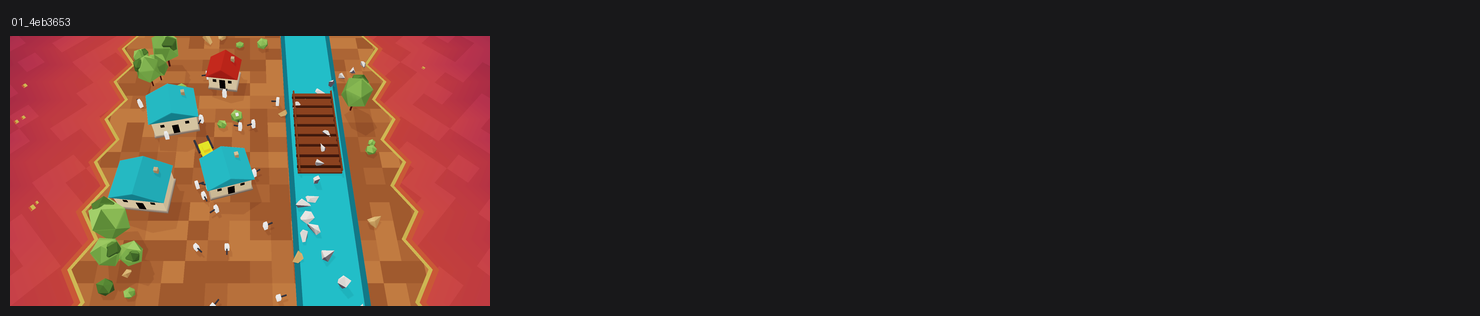
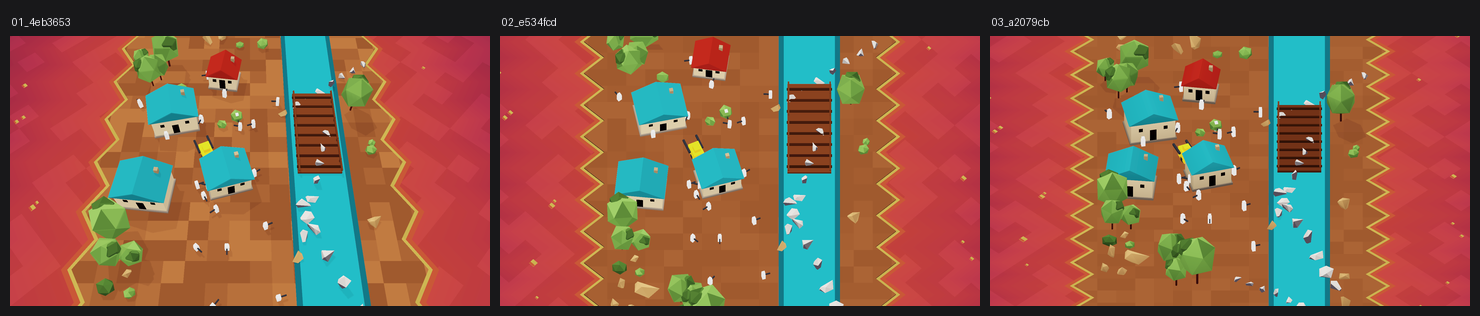
hellrider 迭代记录

diff --git a/styles/hellrider/history/README.md b/styles/hellrider/history/README.md
@@ -8,3 +8,5 @@
 | # | 图 | 提交 | 日期 | 这一版做了什么 |
 |---|---|---|---|---|
 | 1 | [01_4eb3653.png](01_4eb3653.png) | `4eb3653` | 2026-08-21 | 新增美术风格 hellrider：极简平面着色低多边形村庄 |
+| 2 | [02_e534fcd.png](02_e534fcd.png) | `e534fcd` | 2026-08-21 | hellrider 改用正交相机；修正锯齿相位与方格对比 |
+| 3 | [03_a2079cb.png](03_a2079cb.png) | `a2079cb` | 2026-08-21 | hellrider：面内垂直渐变、正交 40° 俯角、修熔岩黑缝 |
